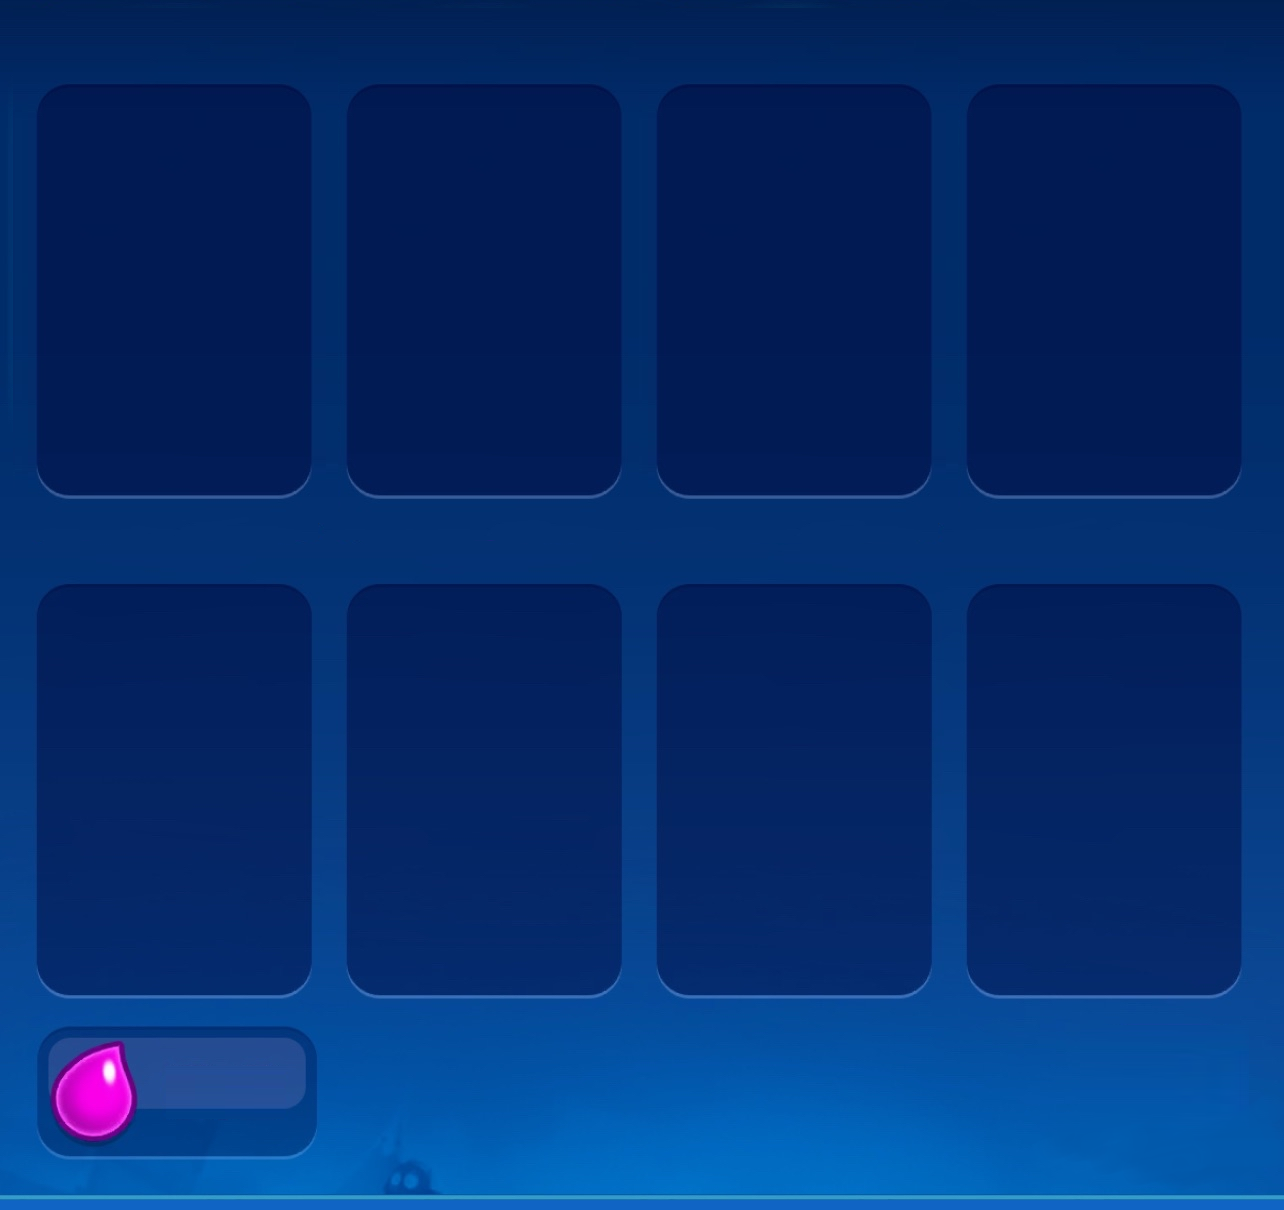
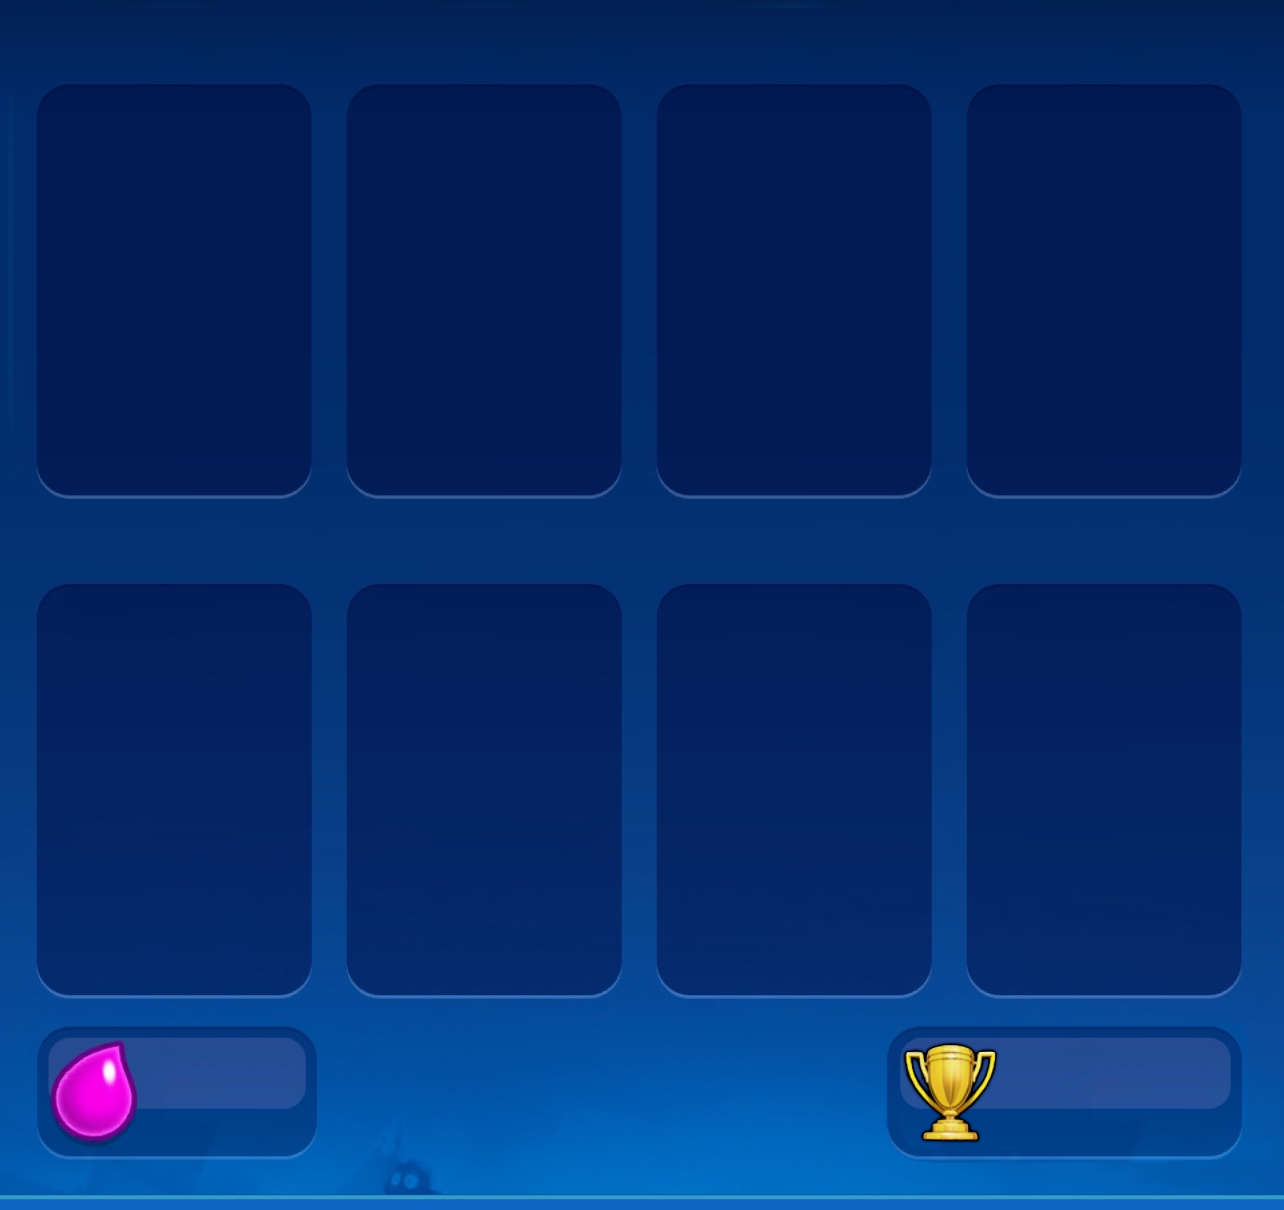
show average trophy count

Changed region(s): [[0.6854, 0.8256, 0.9657, 0.9785]]

diff --git a/static/script.js b/static/script.js
@@ -4,6 +4,7 @@ function clear_deck() {
     deck.clear();
     hintlist.update([]);
     document.querySelector("#commondeckdropdown").value = "blank";
+    document.getElementById("avgtrophies").innerHTML = "0000";
 }
 
 function deck_update_callback(cardlist) {
@@ -147,12 +148,16 @@ class Deck {
         if (this.cards.length == 0) this.avgcost = 0;
 
         this.avgtrophies = totaltrophies / this.cards.length;
-        if (this.cards.length == 0) this.avgtrophies = 0;
+        if (this.cards.length == 0) {
+            document.getElementById("avgtrophies").innerHTML = "0000";
+            this.avgtrophies = 0;
+        }
 
         this.avgwins = totalwins / this.cards.length;
         if (this.cards.length == 0) this.avgwins = 0;
 
         document.getElementById("avgelixir").innerHTML = this.avgcost.toFixed(1);
+        document.getElementById("avgtrophies").innerHTML = this.avgtrophies.toFixed(0);
     }
 
     clear() {

diff --git a/templates/index.html b/templates/index.html
@@ -74,6 +74,7 @@
                     ondragover="dragoverHandler(event)"></div>
                 
                 <span id="avgelixir">0.0</span>
+                <span id="avgtrophies">0000</span>
             </div>
             <div id="hintholder" style="height: -webkit-fill-available; padding: 10px;"></div>
             <div id="bottombtns">

diff --git a/static/styles.css b/static/styles.css
@@ -57,6 +57,13 @@ body {
     left: 13%;
 }
 
+#avgtrophies {
+    font-size: 1em;
+    position: absolute;
+    top: 88%;
+    left: 78.5%;
+}
+
 #rightpane {
     padding: 10px 0 0 10px;
     display: flex;
